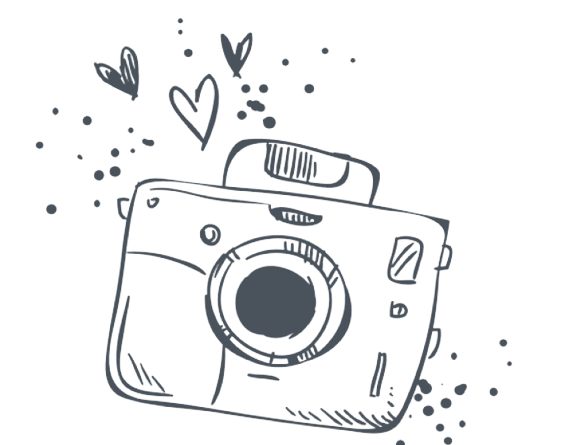
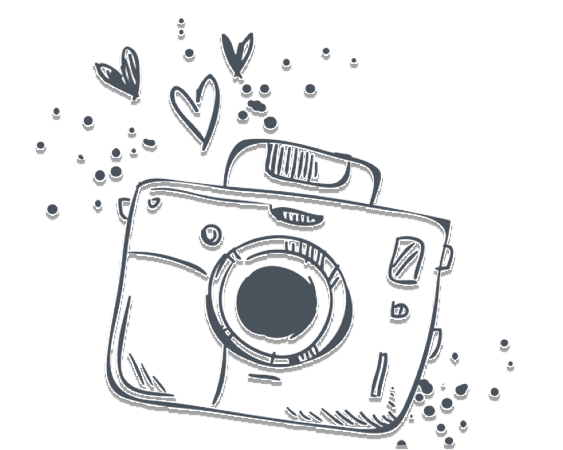
done background image

diff --git a/src/App.jsx b/src/App.jsx
@@ -5,30 +5,32 @@ import Date from "./Components/Date/Date";
 import GuestText from "./Components/GuestText/GuestText";
 import Plan from "./Components/Plan/Plan";
 import Map from "./Components/Map/Map";
-import ThreeDObject from "./Components/TreeDObject/TreeDObject";
+import FixedBackground from "./Loyaut/FixedBackground";
+
 function App() {
   return (
-    <div className="main-app">
-      <div className="timer">
-        <div className="name-title">
-          <NameAndDate></NameAndDate>
-        </div>
+    <div>
+      {/* <div className="main-app"> */}
 
-        <Date></Date>
-        <Timer></Timer>
-      </div>
-      <div className="gues-component">
-        <GuestText></GuestText>
-      </div>
-      <div className="plan-component">
-        <Plan></Plan>
-      </div>
-      <div className="map-component">
-        <Map></Map>
-      </div>
-      <div className="3d-backgound">
-        <ThreeDObject></ThreeDObject>
-      </div>
+      <FixedBackground>
+        {" "}
+        <div className="timer">
+          <div className="name-title">
+            <NameAndDate></NameAndDate>
+          </div>
+          <Date></Date>
+          <Timer></Timer>
+        </div>
+        <div className="gues-component">
+          <GuestText></GuestText>
+        </div>
+        <div className="plan-component">
+          <Plan></Plan>
+        </div>
+        <div className="map-component">
+          <Map></Map>
+        </div>
+      </FixedBackground>
     </div>
   );
 }

diff --git a/src/Loyaut/FixedBackground.jsx b/src/Loyaut/FixedBackground.jsx
@@ -1,0 +1,29 @@
+import React, { useEffect } from "react";
+import "./fixed-background.css";
+
+const FixedBackground = (props) => {
+  useEffect(() => {
+    const handleScroll = () => {
+      const scrollTop =
+        window.pageYOffset || document.documentElement.scrollTop;
+      const element = document.querySelector(".element");
+      if (element) {
+        element.style.backgroundPositionY = -scrollTop + "px";
+      }
+    };
+
+    window.addEventListener("scroll", handleScroll);
+
+    return () => {
+      window.removeEventListener("scroll", handleScroll);
+    };
+  }, []);
+
+  return (
+    <div className="fixed-background">
+      <div className="element">{props.children}</div>
+    </div>
+  );
+};
+
+export default FixedBackground;

diff --git a/src/Components/Map/map.css b/src/Components/Map/map.css
@@ -1,14 +1,37 @@
-/* .mapping {
-  width: 400px;
-  position: absolute;
-  top: 200px;
-  transform: translate(-50%, -50%);
-} */
+.mapping {
+  width: 1000px;
+
+  height: 700px;
+}
 
 .main-header-map {
+  position: relative;
+  top: 30px;
   display: flex;
   flex-direction: column;
   align-items: center;
-  width: 350px;
-  justify-content: center;
+  padding: 70px 0px;
+}
+
+@media (max-width: 490px) and (min-width: 100px) {
+  .mapping {
+    width: 300px;
+
+    height: 300px;
+  }
+}
+
+@media only screen and (max-width: 600px) and (min-width: 490px) {
+  .mapping {
+    width: 450px;
+
+    height: 400px;
+  }
+}
+@media only screen and (max-width: 900px) and (min-width: 601px) {
+  .mapping {
+    width: 600px;
+
+    height: 500px;
+  }
 }

diff --git a/src/Components/Map/Map.jsx b/src/Components/Map/Map.jsx
@@ -1,18 +1,13 @@
 import React, { useState } from "react";
-import {
-  GoogleMap,
-  LoadScript,
-  Marker,
-  InfoWindow,
-} from "@react-google-maps/api";
+import { GoogleMap, LoadScript, Marker } from "@react-google-maps/api";
 import "./map.css";
 
 const Map = () => {
   const [mapLoading, setMapLoading] = useState();
 
   const containerStyle = {
-    width: "500px",
-    height: "400px",
+    width: "100%",
+    height: "100%",
   };
 
   const markerPosition = {
@@ -33,7 +28,7 @@ const Map = () => {
   };
 
   return (
-    <div>
+    <div style={{ width: "100%" }}>
       <div className="main-header-map">
         <div className="title">Місце проведення</div>
         <div className="description">

diff --git a/src/App.css b/src/App.css
@@ -1,10 +1,12 @@
 .main-app {
-  background-image: url("./assets//Fotoram.io.jpg");
+  background-image: url("./assets/Fotoram.io.png");
   background-size: cover;
   background-position: center;
   background-repeat: no-repeat;
   height: 100vh;
+  width: 100vw;
   background-attachment: fixed;
+
   background-color: rgba(255, 255, 255, 0.892);
   height: 4000px;
 }
@@ -38,7 +40,11 @@
 
 .map-component {
   position: absolute;
+
+  width: auto;
+
   top: 2800px;
   left: 50%;
   transform: translate(-50%, -50%);
+  padding-bottom: 40px;
 }

diff --git a/src/Loyaut/fixed-background.css b/src/Loyaut/fixed-background.css
@@ -1,0 +1,25 @@
+.element {
+  position: fixed;
+  top: 0;
+  left: 0;
+  width: 100%;
+  height: 100%;
+
+  background-image: url("../assets/Fotoram.io.png");
+  background-repeat: no-repeat;
+  background-size: cover;
+  background-position: center;
+  overflow: auto;
+}
+
+@media (min-width: 550px) {
+  .element {
+    background-image: url("../assets/Fotoram.io.png");
+    background-repeat: no-repeat;
+    background-position: center;
+
+    background-size: cover;
+    overflow: auto;
+    background-attachment: fixed;
+  }
+}

diff --git a/src/Components/NameAndDate/name-and-date.css b/src/Components/NameAndDate/name-and-date.css
@@ -44,15 +44,15 @@
   font-family: "Italianno", fallback, sans-serif;
   font-weight: 800;
   font-size: 65px;
-  color: dimgrey;
+  color: black;
   display: flex;
   flex-direction: column;
   justify-content: flex-end;
 }
 
-@media (min-width: 300px) and (max-width: 800px) {
+/* @media (min-width: 300px) and (max-width: 800px) {
   .and-between-name {
     top: 55px;
     left: 135px;
   }
-}
+} */

diff --git a/src/Components/Date/date.css b/src/Components/Date/date.css
@@ -1,6 +1,6 @@
 .main-date-style {
   font-size: small-caps bold 24px/1 sans-serif;
-  color: dimgrey;
+  color: black;
   display: flex;
   align-items: center;
   /* gap: 20px; */
@@ -26,7 +26,7 @@
 }
 
 .vetical-line {
-  border: 1px solid dimgrey;
+  border: 1px solid black;
   width: 30px;
   transform: rotate(90deg);
 }

diff --git a/src/Components/Plan/plan.css b/src/Components/Plan/plan.css
@@ -64,11 +64,11 @@
   padding-top: 5px;
   padding-bottom: 5px;
   text-align: center;
-  color: dimgrey;
+  color: black;
 }
 
 .title-plan-time {
   text-align: center;
-  color: dimgrey;
+  color: black;
   font-size: 20px;
 }

diff --git a/src/Components/GuestText/guest-text.css b/src/Components/GuestText/guest-text.css
@@ -18,7 +18,7 @@
   width: 260px;
   align-items: center;
   text-align: center;
-  color: dimgrey;
+  color: black;
 }
 
 .title {

diff --git a/src/Components/Timer/timer.css b/src/Components/Timer/timer.css
@@ -1,5 +1,5 @@
 .counter {
   font-size: 34px;
   text-align: center;
-  color: dimgrey;
+  color: black;
 }
